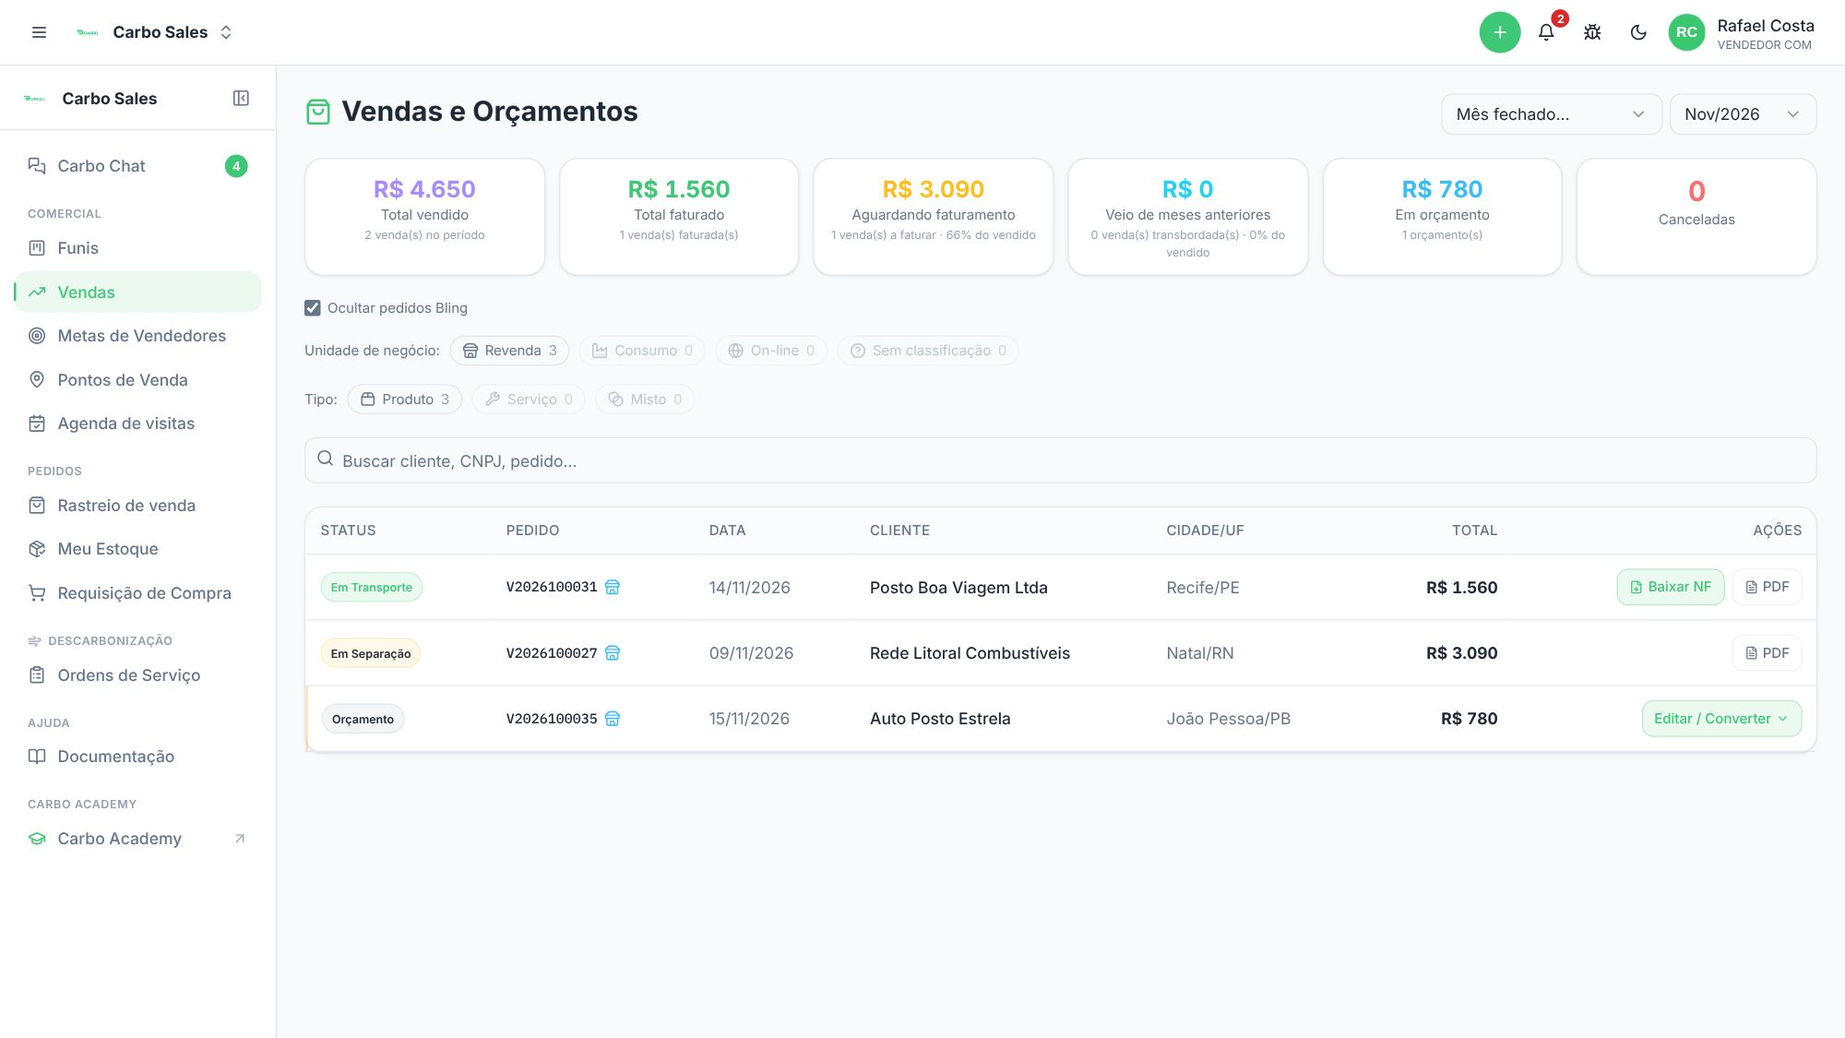
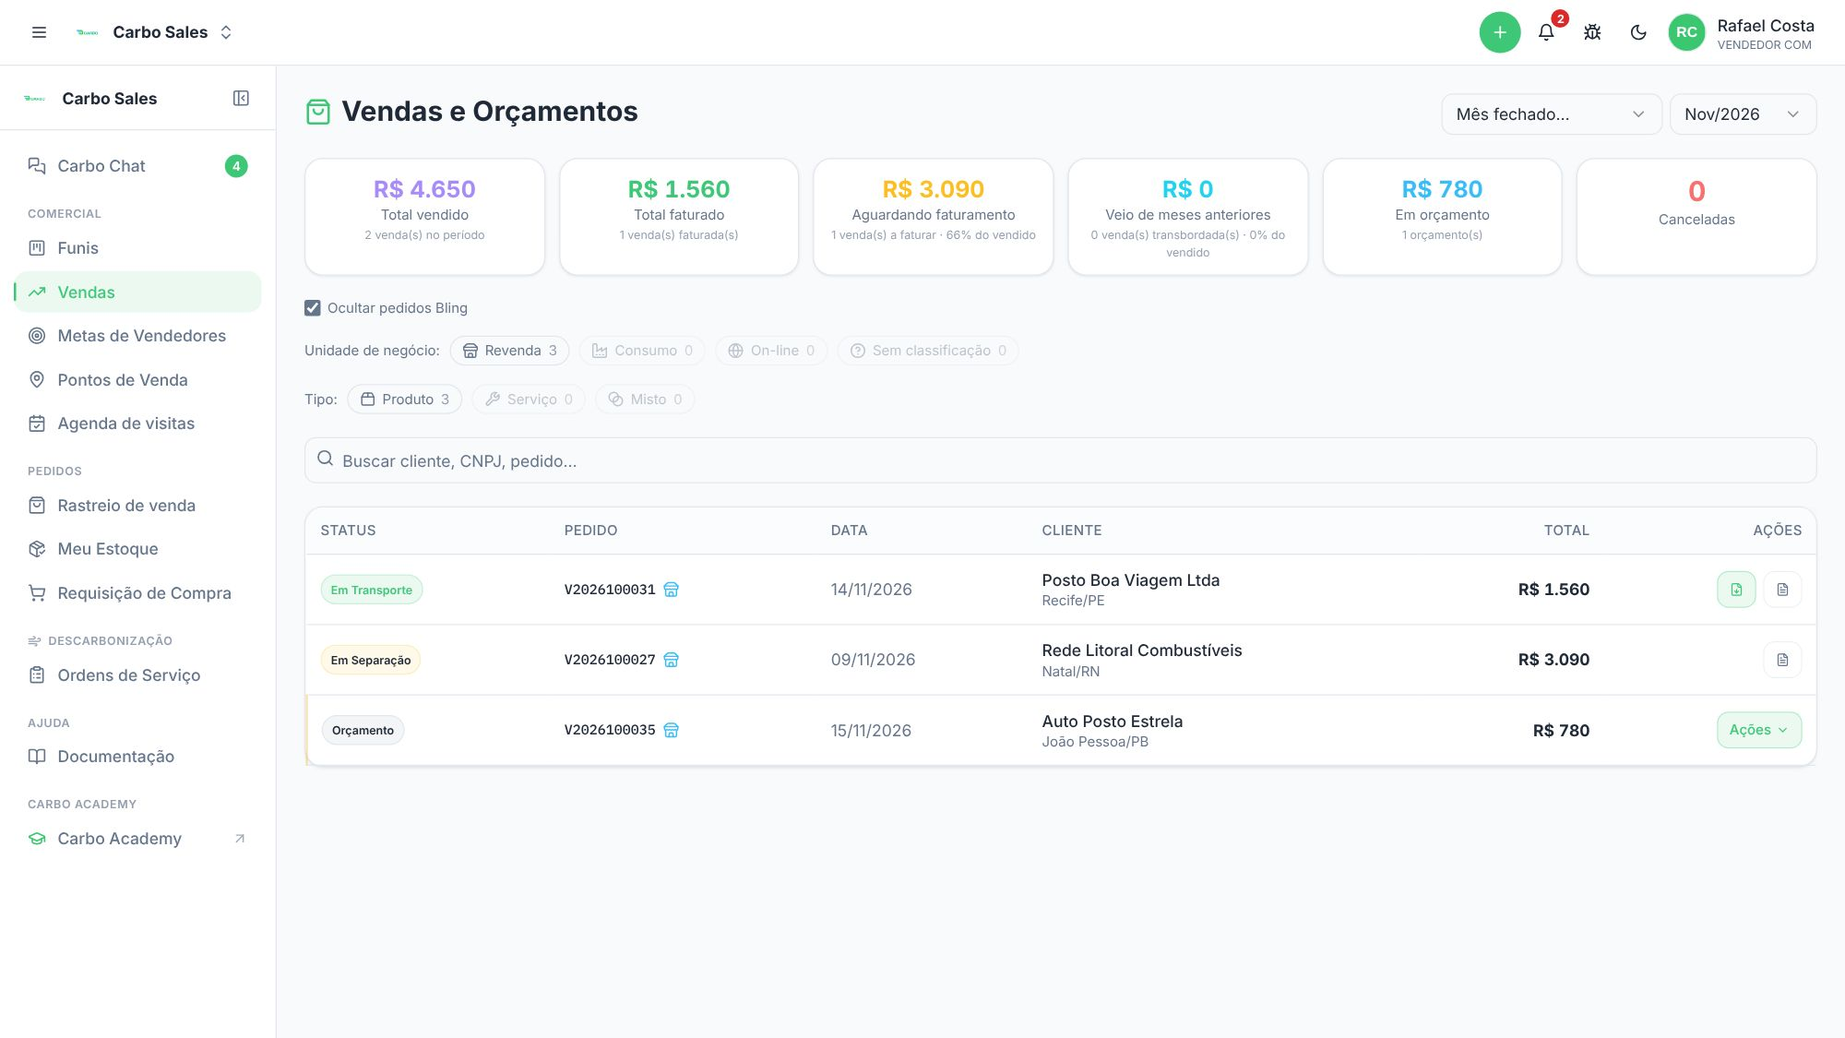
Sales: layout de colunas separadas só a partir de 1800 px
Notebook de 1920 com escala de 125% (padrão do Windows) mede 1536 px no
navegador e caía no layout largo (2xl) — a tabela seguia rolando de lado.

Claude-Session: https://claude.ai/code/session_014dECjKfnWPqtYYc6bX6aZY

diff --git a/apps/crm/src/pages/Vendas.tsx b/apps/crm/src/pages/Vendas.tsx
@@ -712,7 +712,7 @@ export default function Vendas() {
                                 <DropdownMenu>
                                   <DropdownMenuTrigger asChild>
                                     <button className="h-8 px-2.5 inline-flex items-center gap-1 rounded-md text-xs font-medium whitespace-nowrap bg-carbo-green/10 text-carbo-green hover:bg-carbo-green/20 border border-carbo-green/30 transition-colors" title="Editar ou converter o orçamento">
-                                      <span className="hidden 2xl:inline">Editar / Converter</span><span className="2xl:hidden" data-curto>Ações</span>
+                                      <span className="hidden min-[2100px]:inline">Editar / Converter</span><span className="min-[2100px]:hidden" data-curto>Ações</span>
                                       <ChevronDown className="h-3 w-3" />
                                     </button>
                                   </DropdownMenuTrigger>
@@ -743,7 +743,7 @@ export default function Vendas() {
                                       title={`Baixar NF ${notaDaVenda(venda, "venda").numero ?? notaDaVenda(venda, "venda").id}`}
                                     >
                                       {nfLoadingId === venda.id + "venda" ? <Loader2 className="h-3 w-3 animate-spin" /> : <FileDown className="h-3 w-3" />}
-                                      <span className="hidden 2xl:inline">Baixar NF</span>
+                                      <span className="hidden min-[2100px]:inline">Baixar NF</span>
                                     </button>
                                   )}
                                   {/* ⚠ Botão PRÓPRIO, âmbar, e não um segundo "Baixar NF".
@@ -758,12 +758,12 @@ export default function Vendas() {
                                       title={`Baixar NF de bonificação ${notaDaVenda(venda, "bonificacao").numero ?? notaDaVenda(venda, "bonificacao").id}`}
                                     >
                                       {nfLoadingId === venda.id + "bonificacao" ? <Loader2 className="h-3 w-3 animate-spin" /> : <Gift className="h-3 w-3" />}
-                                      <span className="hidden 2xl:inline">NF bonif.</span>
+                                      <span className="hidden min-[2100px]:inline">NF bonif.</span>
                                     </button>
                                   )}
                                   <button onClick={() => baixarPdf(venda.id)} title="Baixar orçamento (PDF)"
                                     className="h-8 px-2.5 inline-flex items-center gap-1 rounded-md text-xs font-medium whitespace-nowrap border border-border/60 text-muted-foreground hover:bg-muted transition-colors">
-                                    <FileText className="h-3 w-3" /><span className="hidden 2xl:inline">PDF</span>
+                                    <FileText className="h-3 w-3" /><span className="hidden min-[2100px]:inline">PDF</span>
                                   </button>
                                 </>
                               )}
@@ -1292,7 +1292,7 @@ export default function Vendas() {
           </div>
           <CarboCard padding="none" className="hidden md:block">
             <div className="overflow-x-auto">
-              <table className="w-full min-w-[820px] 2xl:min-w-[960px] text-sm">
+              <table className="w-full min-w-[820px] min-[1800px]:min-w-[960px] text-sm">
                 <thead>
                   <tr className="border-b bg-muted/30">
                     {isHead && (
@@ -1306,14 +1306,14 @@ export default function Vendas() {
                     <th className="text-left p-3 font-medium text-xs text-muted-foreground uppercase tracking-wide">Pedido</th>
                     <th className="text-left p-3 font-medium text-xs text-muted-foreground uppercase tracking-wide">Data</th>
                     <th className="text-left p-3 font-medium text-xs text-muted-foreground uppercase tracking-wide">Cliente</th>
-                    <th className="hidden 2xl:table-cell text-left p-3 font-medium text-xs text-muted-foreground uppercase tracking-wide">Cidade/UF</th>
+                    <th className="hidden min-[1800px]:table-cell text-left p-3 font-medium text-xs text-muted-foreground uppercase tracking-wide">Cidade/UF</th>
                     {/* ⚠ "Vendedor" e "Criado por" são perguntas DIFERENTES e
                         andam juntas: a primeira é de quem é a venda (e a
                         comissão), a segunda é quem digitou. Elas coincidem na
                         maioria das linhas — e é justamente por isso que a
                         divergência precisa aparecer, em vez de ser presumida. */}
                     {isHead && <th className="text-left p-3 font-medium text-xs text-muted-foreground uppercase tracking-wide">Vendedor</th>}
-                    {isHead && <th className="hidden 2xl:table-cell text-left p-3 font-medium text-xs text-muted-foreground uppercase tracking-wide whitespace-nowrap">Criado por</th>}
+                    {isHead && <th className="hidden min-[1800px]:table-cell text-left p-3 font-medium text-xs text-muted-foreground uppercase tracking-wide whitespace-nowrap">Criado por</th>}
                     <th className="text-right p-3 font-medium text-xs text-muted-foreground uppercase tracking-wide">Total</th>
                     <th className="text-right p-3 font-medium text-xs text-muted-foreground uppercase tracking-wide whitespace-nowrap">Ações</th>
                   </tr>
@@ -1393,26 +1393,26 @@ export default function Vendas() {
                               )
                             )}
                           </td>
-                          {/* Abaixo de 2xl (notebook com a barra lateral aberta) a cidade
+                          {/* Abaixo de 1800 px (notebook, inclusive 1920 com escala de 125% = 1536) a cidade
                               mora embaixo do cliente e "Criado por" embaixo do vendedor:
                               com as colunas separadas a tabela não cabia e cortava o Total. */}
                           <td className="p-3 max-w-[180px]">
                             <div className="font-medium truncate">{venda.customer_name}</div>
-                            <div className="2xl:hidden text-xs text-muted-foreground truncate">{[venda.delivery_city, venda.delivery_state].filter(Boolean).join("/") || "—"}</div>
+                            <div className="min-[1800px]:hidden text-xs text-muted-foreground truncate">{[venda.delivery_city, venda.delivery_state].filter(Boolean).join("/") || "—"}</div>
                           </td>
-                          <td className="hidden 2xl:table-cell p-3 text-muted-foreground whitespace-nowrap">{[venda.delivery_city, venda.delivery_state].filter(Boolean).join("/") || "—"}</td>
+                          <td className="hidden min-[1800px]:table-cell p-3 text-muted-foreground max-w-[170px] truncate">{[venda.delivery_city, venda.delivery_state].filter(Boolean).join("/") || "—"}</td>
                           {isHead && (
                             <td className="p-3 text-muted-foreground">
                               <span>{(venda.vendedor_id && nomeById[venda.vendedor_id]) || venda.vendedor_name || "—"}</span>
                               {criadorDiferente && (
-                                <div className="2xl:hidden text-xs font-medium text-amber-500" title="Lançada por uma pessoa e atribuída a outra">
+                                <div className="min-[1800px]:hidden text-xs font-medium text-amber-500" title="Lançada por uma pessoa e atribuída a outra">
                                   por {criadorNome}
                                 </div>
                               )}
                             </td>
                           )}
                           {isHead && (
-                            <td className="hidden 2xl:table-cell p-3 text-muted-foreground">
+                            <td className="hidden min-[1800px]:table-cell p-3 text-muted-foreground">
                               {criadorNome ? (
                                 <span className={criadorDiferente ? "font-medium text-amber-500" : undefined}
                                   title={criadorDiferente

diff --git a/apps/crm/src/pages/Pdvs.tsx b/apps/crm/src/pages/Pdvs.tsx
@@ -139,12 +139,13 @@ function SortTh({ col, label, sort, onSort, align = "left", className = "" }: {
   );
 }
 
-/** Coluna que só existe na tela larga (2xl). No notebook, com a barra lateral
+/** Coluna que só existe na tela larga (≥ 1800 px; 1920 com escala de 125%
+ *  do Windows é 1536 e NÃO é larga). No notebook, com a barra lateral
  *  aberta, as onze colunas não cabiam e Comprado/Ações ficavam fora da tela:
  *  o código e o CNPJ descem para baixo do nome, o status vira etiqueta ao lado
  *  dele (só quando não é Ativo) e pedidos/última compra descem para baixo do
  *  valor comprado. */
-const SO_LARGA = "hidden 2xl:table-cell";
+const SO_LARGA = "hidden min-[1800px]:table-cell";
 
 /** Quantos produtos o PDV declara vender — é por isso que se ordena o Mix. */
 const mixVendidos = (p: PdvRow) => PRODUTOS.filter((k) => p.mix?.[k]?.oferece === "sim").length;
@@ -463,12 +464,12 @@ export default function Pdvs() {
                               Microdistribuidor
                             </span>
                           )}
-                          <span className="2xl:hidden block truncate font-mono text-[11px] text-muted-foreground">
+                          <span className="min-[1800px]:hidden block truncate font-mono text-[11px] text-muted-foreground">
                             {p.pdv_code}{" · "}
                             {p.sem_documento ? <span className="text-amber-500">sem documento</span> : fmtDoc(p.cnpj)}
                           </span>
                           {p.status !== "active" && (
-                            <span className="2xl:hidden mt-0.5 inline-block">
+                            <span className="min-[1800px]:hidden mt-0.5 inline-block">
                               <CarboBadge variant={PDV_STATUS_VARIANT[p.status]} size="sm">{PDV_STATUS_LABEL[p.status]}</CarboBadge>
                             </span>
                           )}
@@ -483,7 +484,7 @@ export default function Pdvs() {
                           `title`: endereço completo tem 60+ caracteres e, solto
                           numa célula, empurraria Mix e Comprado para fora da
                           tela — que é o oposto de mostrar mais informação. */}
-                      <td className="px-3 py-2 text-xs max-w-[180px] 2xl:max-w-[220px]">
+                      <td className="px-3 py-2 text-xs max-w-[180px] min-[1800px]:max-w-[220px]">
                         <p className="truncate" title={[p.address_city, p.address_state].filter(Boolean).join("/") || undefined}>
                           {[p.address_city, p.address_state].filter(Boolean).join("/") || "—"}
                         </p>
@@ -509,7 +510,7 @@ export default function Pdvs() {
                       <td className="px-3 py-2 text-right tabular-nums font-medium whitespace-nowrap">
                         {p.total_comprado ? brl(p.total_comprado) : "—"}
                         {p.pedidos > 0 && (
-                          <span className="2xl:hidden block text-[11px] font-normal text-muted-foreground">
+                          <span className="min-[1800px]:hidden block text-[11px] font-normal text-muted-foreground">
                             {p.pedidos} {p.pedidos === 1 ? "pedido" : "pedidos"} · {fmtData(p.ultima_compra)}
                           </span>
                         )}

diff --git a/apps/crm/src/components/os/OSLista.tsx b/apps/crm/src/components/os/OSLista.tsx
@@ -49,7 +49,7 @@ function TipoSelo({ o }: { o: OSView }) {
 function Progresso({ o, className }: { o: OSView; className?: string }) {
   const pct = o.vagas > 0 ? Math.min(100, (o.vagasExecutadas / o.vagas) * 100) : 0;
   return (
-    <div className={cn("flex flex-wrap items-center gap-x-2.5 gap-y-0.5 2xl:flex-nowrap", className)}>
+    <div className={cn("flex flex-wrap items-center gap-x-2.5 gap-y-0.5 min-[1800px]:flex-nowrap", className)}>
       <span className="w-11 shrink-0 text-sm tabular-nums">
         <span className="font-medium text-foreground">{o.vagasExecutadas}</span>
         <span className="text-muted-foreground">/{o.vagas}</span>
@@ -57,7 +57,7 @@ function Progresso({ o, className }: { o: OSView; className?: string }) {
       <div className="h-1 w-16 shrink-0 overflow-hidden rounded-full bg-muted">
         <div className={cn("h-full rounded-full", stageMeta(o.stage).bar)} style={{ width: `${pct}%` }} />
       </div>
-      {o.portes && <span className="basis-full truncate text-xs text-muted-foreground 2xl:basis-auto">{o.portes}</span>}
+      {o.portes && <span className="basis-full truncate text-xs text-muted-foreground min-[1800px]:basis-auto">{o.portes}</span>}
     </div>
   );
 }
@@ -149,10 +149,10 @@ export function OSLista({ items }: { items: OSView[] }) {
 
       {/* Tela larga */}
       <div className="hidden overflow-x-auto md:block">
-        {/* Abaixo de 2xl (notebook com a barra lateral aberta) as células
+        {/* Abaixo de 1800 px (notebook; 1920 com escala de 125% é 1536) as células
             apertam e os portes descem para baixo da barra — senão a Etapa
             ficava fora da tela. */}
-        <table className="w-full text-sm [&_td]:px-3 [&_th]:px-3 2xl:[&_td]:px-4 2xl:[&_th]:px-4">
+        <table className="w-full text-sm [&_td]:px-3 [&_th]:px-3 min-[1800px]:[&_td]:px-4 min-[1800px]:[&_th]:px-4">
           <thead className="border-b bg-muted/40">
             <tr>
               <Cabecalho rotulo="OS" ordem={ordem} onOrdenar={ordenar} />
@@ -174,7 +174,7 @@ export function OSLista({ items }: { items: OSView[] }) {
                   {o.veiculo && <p className="mt-0.5 truncate text-xs text-muted-foreground">{o.veiculo}</p>}
                 </td>
                 <td className="px-4 py-3"><TipoSelo o={o} /></td>
-                <td className="px-4 py-3"><Progresso o={o} className="min-w-[8rem] 2xl:min-w-[12rem]" /></td>
+                <td className="px-4 py-3"><Progresso o={o} className="min-w-[8rem] min-[1800px]:min-w-[12rem]" /></td>
                 <td className="px-4 py-3"><Data o={o} hoje={hoje} /></td>
                 <td className="whitespace-nowrap px-4 py-3">
                   {o.pedido

diff --git a/apps/ops/src/components/os/OSLista.tsx b/apps/ops/src/components/os/OSLista.tsx
@@ -49,7 +49,7 @@ function TipoSelo({ o }: { o: OSView }) {
 function Progresso({ o, className }: { o: OSView; className?: string }) {
   const pct = o.vagas > 0 ? Math.min(100, (o.vagasExecutadas / o.vagas) * 100) : 0;
   return (
-    <div className={cn("flex flex-wrap items-center gap-x-2.5 gap-y-0.5 2xl:flex-nowrap", className)}>
+    <div className={cn("flex flex-wrap items-center gap-x-2.5 gap-y-0.5 min-[1800px]:flex-nowrap", className)}>
       <span className="w-11 shrink-0 text-sm tabular-nums">
         <span className="font-medium text-foreground">{o.vagasExecutadas}</span>
         <span className="text-muted-foreground">/{o.vagas}</span>
@@ -57,7 +57,7 @@ function Progresso({ o, className }: { o: OSView; className?: string }) {
       <div className="h-1 w-16 shrink-0 overflow-hidden rounded-full bg-muted">
         <div className={cn("h-full rounded-full", stageMeta(o.stage).bar)} style={{ width: `${pct}%` }} />
       </div>
-      {o.portes && <span className="basis-full truncate text-xs text-muted-foreground 2xl:basis-auto">{o.portes}</span>}
+      {o.portes && <span className="basis-full truncate text-xs text-muted-foreground min-[1800px]:basis-auto">{o.portes}</span>}
     </div>
   );
 }
@@ -149,10 +149,10 @@ export function OSLista({ items }: { items: OSView[] }) {
 
       {/* Tela larga */}
       <div className="hidden overflow-x-auto md:block">
-        {/* Abaixo de 2xl (notebook com a barra lateral aberta) as células
+        {/* Abaixo de 1800 px (notebook; 1920 com escala de 125% é 1536) as células
             apertam e os portes descem para baixo da barra — senão a Etapa
             ficava fora da tela. */}
-        <table className="w-full text-sm [&_td]:px-3 [&_th]:px-3 2xl:[&_td]:px-4 2xl:[&_th]:px-4">
+        <table className="w-full text-sm [&_td]:px-3 [&_th]:px-3 min-[1800px]:[&_td]:px-4 min-[1800px]:[&_th]:px-4">
           <thead className="border-b bg-muted/40">
             <tr>
               <Cabecalho rotulo="OS" ordem={ordem} onOrdenar={ordenar} />
@@ -174,7 +174,7 @@ export function OSLista({ items }: { items: OSView[] }) {
                   {o.veiculo && <p className="mt-0.5 truncate text-xs text-muted-foreground">{o.veiculo}</p>}
                 </td>
                 <td className="px-4 py-3"><TipoSelo o={o} /></td>
-                <td className="px-4 py-3"><Progresso o={o} className="min-w-[8rem] 2xl:min-w-[12rem]" /></td>
+                <td className="px-4 py-3"><Progresso o={o} className="min-w-[8rem] min-[1800px]:min-w-[12rem]" /></td>
                 <td className="px-4 py-3"><Data o={o} hoje={hoje} /></td>
                 <td className="whitespace-nowrap px-4 py-3">
                   {o.pedido

diff --git a/apps/crm/src/docs/secoes/comercial.ts b/apps/crm/src/docs/secoes/comercial.ts
@@ -97,7 +97,7 @@ export const SECOES_COMERCIAL: Secao[] = [
           { n: 4, titulo: "UF", texto: "Mostra só os PDVs de um estado." },
           { n: 5, titulo: "Dono", texto: "Mostra só a carteira de um vendedor." },
           { n: 6, titulo: "Resumo", texto: "Quantos aparecem com os filtros, quantos já compraram, quantos estão sem documento e sem dono." },
-          { n: 7, titulo: "Ordenar", texto: "Clique no nome de qualquer coluna para ordenar; clique de novo para inverter. Pedidos, Comprado e Última começam do maior/mais recente." },
+          { n: 7, titulo: "Ordenar", texto: "Clique no nome de qualquer coluna para ordenar; clique de novo para inverter. Pedidos, Comprado e Última começam do maior/mais recente. No notebook, código e CNPJ aparecem embaixo do nome, e pedidos e última compra embaixo do valor comprado; as colunas separadas (e a ordenação por elas) aparecem só em tela grande." },
           { n: 8, titulo: "Sem documento", texto: "PDV sem CNPJ/CPF. As vendas dele não viram Revenda sozinhas e o histórico de pedidos não aparece. Preencha o documento." },
           { n: 9, titulo: "Mix", texto: "O que o ponto revende: 10ml (sachê), 100ml e 1L. Verde = vende, cinza = não vende, laranja = a confirmar (ninguém conferiu ainda — é onde falta visita). Passe o mouse para ver o preço." },
           { n: 10, titulo: "Microdistribuidor", texto: "Etiqueta do PDV que também é microdistribuidor. Ele continua sendo ponto de venda e contando na base." },

diff --git a/apps/crm/src/pages/Pipelines.tsx b/apps/crm/src/pages/Pipelines.tsx
@@ -564,7 +564,7 @@ export default function Pipelines() {
         ) : (
           // No notebook (xl, barra lateral aberta) o 4º cartão — Pipeline (R$) —
           // é mais largo: com os cinco iguais o valor em reais quebrava em duas linhas.
-          <div className={`${FAIXA_KPI_CELULAR} md:grid md:gap-3 ${MOSTRA_QUENTES_E_TENTATIVAS ? "md:grid-cols-3 xl:grid-cols-[repeat(3,minmax(0,1fr))_minmax(0,1.4fr)_minmax(0,1fr)] 2xl:grid-cols-5" : "md:grid-cols-3"}`}>
+          <div className={`${FAIXA_KPI_CELULAR} md:grid md:gap-3 ${MOSTRA_QUENTES_E_TENTATIVAS ? "md:grid-cols-3 xl:grid-cols-[repeat(3,minmax(0,1fr))_minmax(0,1.4fr)_minmax(0,1fr)] min-[1800px]:grid-cols-5" : "md:grid-cols-3"}`}>
             <CarboKPI title="Total Leads" value={stats?.total || 0} icon={Users} iconColor="blue" loading={!stats} />
             {MOSTRA_QUENTES_E_TENTATIVAS && <CarboKPI title="Quentes" value={stats?.hot || 0} icon={Flame} iconColor="warning" loading={!stats} />}
             <CarboKPI title="Sem Atividade >3d" value={stats?.stale || 0} icon={AlertTriangle} iconColor="warning" loading={!stats} />

diff --git a/apps/crm/src/docs/secoes/base.ts b/apps/crm/src/docs/secoes/base.ts
@@ -269,7 +269,7 @@ export const SECOES_BASE: Secao[] = [
           { n: 2, titulo: "Seleção", texto: "Marque as vendas (ou todas) para agir em massa." },
           { n: 3, titulo: "Atribuir vendedor", texto: "Troca o vendedor das vendas selecionadas de uma vez (e, com isso, de quem é a comissão)." },
           { n: 4, titulo: "Vendedor", texto: "De quem é a venda." },
-          { n: 5, titulo: "Criado por", texto: "Quem lançou, quando foi outra pessoa (ex.: o gestor lançando em nome do vendedor)." },
+          { n: 5, titulo: "Criado por", texto: "Quem lançou, quando foi outra pessoa (ex.: o gestor lançando em nome do vendedor). No notebook ele aparece embaixo do vendedor, em laranja, só quando é outra pessoa." },
         ],
       },
       {

diff --git a/CLAUDE.md b/CLAUDE.md
@@ -1615,8 +1615,12 @@ monitor de 1920. Medido no navegador (Supabase falso), app a app.
    "Criado por" sob o vendedor (só quando diverge), código+CNPJ sob o PDV,
    pedidos+última compra sob o valor, status do PDV vira etiqueta (só se não é
    Ativo), portes da OS sob a barra; botões de ação só com ícone (o cartão do
-   celular continua forçando o texto). Em `2xl` (o monitor grande) nada muda.
-   ⚠ Ordenar pelas colunas escondidas só existe no `2xl`.
+   celular continua forçando o texto). A partir de **1800 px** (`min-[1800px]:`)
+   volta o layout de colunas separadas; os rótulos dos botões de Vendas só em 2100.
+   ⚠ **O corte NÃO é `2xl` (1536)**: a 1ª versão usou `2xl` e não resolveu —
+   notebook de 1920 com a escala de 125% do Windows (o padrão) mede **1536 px**
+   no navegador e caía no layout largo. Meça em 1536 também, não só 1280/1366.
+   ⚠ Ordenar pelas colunas escondidas só existe na tela larga.
    ⚠ Texto dentro de `Button`/`CarboButton` (`gap-2`) vai num `<span>` só: dois
    pedaços soltos ganham o `gap` entre si ("Gerar   Orçamento").
    ⚠ Quadros (Funis, Rastreio, OS) rolam de lado POR DESENHO (`QuadroRolavel`)
